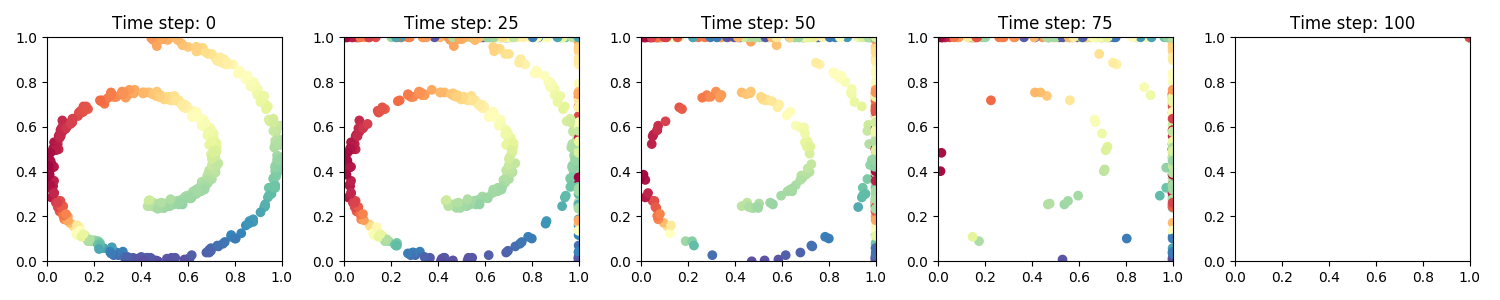
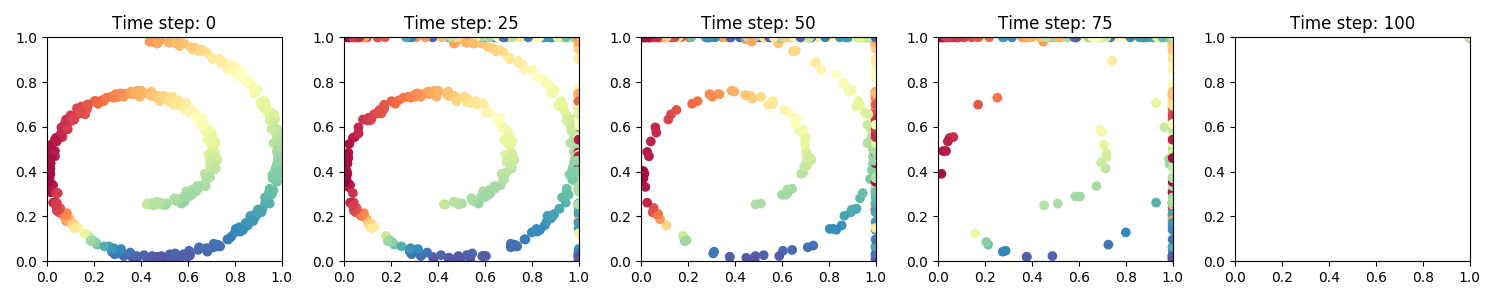
Refactor code for better organization

diff --git a/main.py b/main.py
@@ -4,158 +4,142 @@ import torch.nn as nn
 import torch.optim as optim
 from sklearn.datasets import make_swiss_roll
 import numpy as np
-import matplotlib.pyplot as plt
+from plotting import plot_swiss_roll, plot_noising_process
+from utils import get_diffusion_betas
 
-
-N_SAMPLES = 500  # number of samples for swiss roll dataset
-N_SCHEDULE_STEPS = 100  # number of steps for the diffusion process
-N_HIDDEN = 128  # number of hidden units in the neural network
-N_STATES = 256  # number of states for the swiss roll data
-ABSORBING_STATE = N_STATES  # index of the absorbing state
-
-def create_quantized_swiss_roll(n_samples=1000, noise=0.2, random_state=None):
-    data, _ = make_swiss_roll(n_samples, noise=noise, random_state=random_state)
-    data = data[:, [0, 2]]  # we only take the first and last column.
-    min_val = np.min(data, axis=0)
-    max_val = np.max(data, axis=0)
-
-    # Normalize and quantize the data
-    data = (data - min_val) / (max_val - min_val)
-    data = np.floor(data * N_STATES)  # Quantize to 256 bins
-
-    # Add an absorbing state column initialized to zero (no points absorbed yet)
-    absorbing_state_column = np.zeros((n_samples, 1), dtype=int)
-    data_with_absorbing_state = np.hstack((data, absorbing_state_column))
-    return torch.Tensor(data_with_absorbing_state).long()
-
-# Assume a linear noise schedule for simplicity
-def noise_schedule(t):
-    return t / N_SCHEDULE_STEPS
 
 class NoisySwissRollDataset(data.Dataset):
-    def __init__(self, data):
-        self.data = data
+    def __init__(self, betas, n_schedule_steps, n_states):
+        self.n_samples = 10000
+        self.betas = betas
+        self.n_schedule_steps = n_schedule_steps
+        self.n_states = n_states
+        self.absorbing_idx = n_states
+        self.data = self.create_quantized_swiss_roll()
+
+    def create_quantized_swiss_roll(self, noise=0.2, random_state=None):
+        data, _ = make_swiss_roll(self.n_samples, noise=noise, random_state=random_state)
+        data = data[:, [0, 2]]  # we only take the first and last column.
+        min_val = np.min(data, axis=0)
+        max_val = np.max(data, axis=0)
+
+        # Normalize and quantize the data
+        data = (data - min_val) / (max_val - min_val)
+        data = np.floor(data * self.n_states)  # Quantize to 256 bins
+        return torch.Tensor(data).long()
+
+    def apply_noising(self, data_point, t):
+        noise_level = self.betas[t]
+        noisy_data = data_point.clone().detach()
+        noisy_data += (torch.rand(2) < noise_level).long() * (self.absorbing_idx - noisy_data)
+        return noisy_data
 
     def __len__(self):
         return len(self.data)
 
-    def apply_noising(self, data_point, t):
-        noise_level = noise_schedule(t)
-        noisy_data = data_point.clone().detach()
-        noisy_data[:-1] += (torch.rand(2) < noise_level).long() * (ABSORBING_STATE - noisy_data[:-1])
-        if (noisy_data[:-1] >= ABSORBING_STATE).any():
-            noisy_data[-1] = 1  # Mark the point as absorbed
-        return noisy_data
-
     def __getitem__(self, idx):
-        t = torch.randint(0, N_SCHEDULE_STEPS, (1,)).item()
+        t = torch.randint(0, self.n_schedule_steps, (1,)).item()
         data_point = self.data[idx]
         return self.apply_noising(data_point, t), t
 
+
 class DiffusionModel(nn.Module):
-    def __init__(self):
+    def __init__(self, n_features, n_states, n_schedule_steps):
         super(DiffusionModel, self).__init__()
         # A simple network with two hidden layers and ReLU activations
+        self.n_hidden = 128
+        self.n_schedule_steps = n_schedule_steps
         self.network = nn.Sequential(
-            nn.Linear(2, N_HIDDEN),  # 2 input features, since it's 2D data
+            nn.Linear(3, self.n_hidden),  # 2 features + 1 for time embedding
             nn.ReLU(),
-            nn.Linear(N_HIDDEN, N_HIDDEN),
+            nn.Linear(self.n_hidden, self.n_hidden),
             nn.ReLU(),
-            nn.Linear(N_HIDDEN, 2)  # 2 output features (denoised x, y)
+            nn.Linear(self.n_hidden, n_features * (n_states + 1))  # Output logits for all features
         )
     
     def forward(self, x, t):
-        # You could include the time information t in your network input if desired
-        # For now, we just ignore t
+        t = t.float() / self.n_schedule_steps  # Normalize timesteps
+        t_embed = t.view(-1, 1)  # Reshape t to have the correct shape (batch_size, 1)
+        x = torch.cat([x.float(), t_embed], dim=1)
         return self.network(x)
 
-def train(model, dataset_loader, epochs=10):
-    optimizer = optim.Adam(model.parameters(), lr=1e-3)
-    criterion = nn.MSELoss()
-    model.train()  # set the model to training mode
-    
-    for epoch in range(epochs):
-        for i, (noisy_data, _) in enumerate(dataset_loader):
-            optimizer.zero_grad()  # clear previous gradients
-            prediction = model(noisy_data.float(), t=None)  # forward pass without time embedding for simplicity
-            loss = criterion(prediction, noisy_data.float())  # compute loss
-            loss.backward()  # backward pass to calculate gradients
-            optimizer.step()  # update model parameters
-            
-            print(f"Epoch [{epoch+1}/{epochs}], Step [{i+1}/{len(dataset_loader)}], Loss: {loss.item():.4f}")
 
-def sample(model, num_samples=100, num_steps=1000):
-    samples = torch.zeros(num_samples, 2).long()  # Replace with actual sampling code
-    # Implement the reverse diffusion process here
-    return samples
+class SwissRollDiffusion():
+    def __init__(self):
+        self.n_samples = 500  # number of samples for swiss roll dataset
+        self.n_schedule_steps = 100  # number of steps for the diffusion process
+        self.n_epochs = 20  # number of epochs for training
+        self.n_states = 256  # number of states for the swiss roll data
+        self.n_features = 2  # number of features (e.g. x and y coordinate)
+        self.absorbing_idx = self.n_states  # index of the absorbing state
+        self.betas = get_diffusion_betas({'type': 'jsd', 'num_timesteps': self.n_schedule_steps})
+        self.eps = 1e-6  # small value to avoid division by zero
+        self.q_one_step_mats = self.init_transition_matrices()
+        self.noisy_dataset = NoisySwissRollDataset(self.betas, self.n_schedule_steps, self.n_states)
+        self.dataset_loader = torch.utils.data.DataLoader(self.noisy_dataset, batch_size=128, shuffle=True)
 
-def plot_swiss_roll(data, save_path="plots/swiss_roll.png"):
-    plt.figure(figsize=(6, 6))
-    plt.scatter(data[:, 0], data[:, 1], c=np.arctan2(data[:, 0], data[:, 1]), cmap=plt.cm.Spectral)
-    plt.xlabel('X axis')
-    plt.ylabel('Y axis')
-    plt.title('Quantized Swiss Roll')
-    plt.grid(True)
-    plt.savefig(save_path)
-    plt.show()
-
-def visualize_data():
-    # Create a quantized swiss roll dataset
-    quantized_data = create_quantized_swiss_roll(n_samples=N_SAMPLES)
-
-    # Convert to a suitable range for visualization
-    quantized_data = quantized_data / 256.0
-    quantized_data = quantized_data.numpy()
-
-    # Plot and visualize the swiss roll
-    plot_swiss_roll(quantized_data)
-
-def visualize_noising_process():
-    original_data = create_quantized_swiss_roll(n_samples=N_SAMPLES)
-    dataset = NoisySwissRollDataset(original_data)
-
-    vis_steps = 5  # Number of visualization steps
-
-    # Calculate original colors based on initial positions
-    original_colors = np.arctan2(original_data[:, 0], original_data[:, 1]) / N_STATES
-
-    _, axes = plt.subplots(1, vis_steps, figsize=(15, 3))
-    for i in range(vis_steps):
-        time_step = int(i * (N_SCHEDULE_STEPS / (vis_steps - 1)))
-        if time_step > N_SCHEDULE_STEPS:
-            time_step = N_SCHEDULE_STEPS
+    def train(self):
+        model = DiffusionModel(self.n_features, self.n_states, self.n_schedule_steps)
+        optimizer = optim.Adam(model.parameters(), lr=1e-3)
+        criterion = nn.CrossEntropyLoss()  # Assumes classification task for states
+        model.train()
         
-        data_noised = np.array([
-            dataset.apply_noising(dataset.data[j], time_step)[:2].numpy() / N_STATES
-            for j in range(len(dataset))
-        ])
+        for epoch in range(self.n_epochs):
+            for i, (noisy_data, timesteps) in enumerate(self.dataset_loader):
+                optimizer.zero_grad()
+                predictions = model(noisy_data, timesteps)
+                
+                # Split predictions into separate parts for x and y
+                predictions_x = predictions[:, :(self.n_states + 1)]
+                predictions_y = predictions[:, (self.n_states + 1):]
+                
+                # Assume the targets are the original x and y indices
+                loss_x = criterion(predictions_x, noisy_data[:, 0].long())  # Target for x
+                loss_y = criterion(predictions_y, noisy_data[:, 1].long())  # Target for y
+                loss = loss_x + loss_y  # Total loss is the sum of both losses
+                
+                loss.backward()
+                optimizer.step()
+                
+                print(f"Epoch [{epoch+1}/{self.n_epochs}], Step [{i+1}/{len(self.dataset_loader)}], Loss: {loss.item():.4f}")
 
-        axes[i].scatter(data_noised[:, 0], data_noised[:, 1], c=original_colors, cmap=plt.cm.Spectral)
-        axes[i].set_title(f'Time step: {time_step}')
-        axes[i].set_xlim(0, 1)
-        axes[i].set_ylim(0, 1)
+    def init_transition_matrices(self):
+        """Initialize transition matrices with an absorbing state."""
+        # Set values directly to avoid numerical error with betas
+        transition_matrices = []
+        for beta in self.betas:
+            matrix = torch.zeros((self.n_states + 1, self.n_states + 1))  # +1 for absorbing state
+            matrix.fill_diagonal_(1 - beta)
+            matrix[:, self.absorbing_idx] = beta
+            matrix[self.absorbing_idx, self.absorbing_idx] = 1
+            transition_matrices.append(matrix)
+        return torch.stack(transition_matrices)
 
-    plt.tight_layout()
-    plt.savefig("plots/noising_process.png")
-    plt.show()
+    def compute_kl_divergence(self, model, data, timesteps):
+        model_output = model(data, timesteps)
+        # Assume model_output is logits of the reverse transition probabilities
+        # Calculate the forward transition probabilities based on your transition matrices
+        forward_probs = ...  # Extracted from q_one_step_mats based on current state and timesteps
+        model_probs = torch.softmax(model_output, dim=-1)
+        kl_div = torch.sum(model_probs * (torch.log(model_probs + self.eps) - torch.log(forward_probs + self.eps)), dim=-1)
+        return kl_div.mean()
 
-def main():
-    # Generating the dataset
-    dataset = create_quantized_swiss_roll()
-    noisy_dataset = NoisySwissRollDataset(dataset)
-    dataset_loader = torch.utils.data.DataLoader(noisy_dataset, batch_size=128, shuffle=True)
+    def q_posterior_logits(self, transpose_q_mats, q_mats, x_t, t, x_start):
+        """Compute the logits of q(x_{t-1} | x_t, x_start)."""
+        # transpose_q_mats and q_mats are precomputed transition matrices
+        fact1 = transpose_q_mats[t][x_t]  # Transition probabilities from x_t
+        fact2 = q_mats[t-1][x_start] if t > 0 else torch.zeros_like(fact1)
+        logits = torch.log(fact1 + self.eps) + torch.log(fact2 + self.eps)
+        return logits
 
-    # Instantiate the model
-    model = DiffusionModel()
-
-    # Training the model
-    train(model, dataset_loader)
-
-    # Generate new data points
-    # generated_samples = sample(model)
+    def visualize_noising_process(self):
+        dataset = NoisySwissRollDataset(self.betas, self.n_schedule_steps, self.n_states)
+        vis_steps = 5  # Number of visualization steps
+        colors = np.arctan2(data[:, 0], data[:, 1]) / self.n_states  # use original data for coloring
+        plot_noising_process(dataset, vis_steps, colors, self.n_states, self.n_schedule_steps)
 
 
 if __name__ == "__main__":
-    # visualize_data()
-    # main()
-    visualize_noising_process()
+    swiss_roll_diffusion = SwissRollDiffusion()
+    swiss_roll_diffusion.train()
+    # swiss_roll_diffusion.visualize_noising_process()

diff --git a/utils.py b/utils.py
@@ -1,0 +1,31 @@
+# Some parts taken directly from the official d3pm code base
+# https://github.com/google-research/google-research/tree/master/d3pm
+import numpy as np
+
+
+def get_diffusion_betas(spec):
+  """Get betas from the hyperparameters."""
+  if spec['type'] == 'linear':
+    # Used by Ho et al. for DDPM, https://arxiv.org/abs/2006.11239.
+    # To be used with Gaussian diffusion models in continuous and discrete
+    # state spaces.
+    # To be used with transition_mat_type = 'gaussian'
+    return np.linspace(spec['start'], spec['stop'], spec['num_timesteps'])
+  elif spec['type'] == 'cosine':
+    # Schedule proposed by Hoogeboom et al. https://arxiv.org/abs/2102.05379
+    # To be used with transition_mat_type = 'uniform'.
+    steps = (
+        np.arange(spec['num_timesteps'] + 1, dtype=np.float64) /
+        spec['num_timesteps'])
+    alpha_bar = np.cos((steps + 0.008) / 1.008 * np.pi / 2)
+    betas = np.minimum(1 - alpha_bar[1:] / alpha_bar[:-1], 0.999)
+    return betas
+  elif spec['type'] == 'jsd':  # 1/T, 1/(T-1), 1/(T-2), ..., 1
+    # Proposed by Sohl-Dickstein et al., https://arxiv.org/abs/1503.03585
+    # To be used with absorbing state models.
+    # ensures that the probability of decaying to the absorbing state
+    # increases linearly over time, and is 1 for t = T-1 (the final time).
+    # To be used with transition_mat_type = 'absorbing'
+    return 1. / np.linspace(spec['num_timesteps'], 1., spec['num_timesteps'])
+  else:
+    raise NotImplementedError(spec['type'])

diff --git a/plotting.py b/plotting.py
@@ -1,0 +1,34 @@
+import numpy as np
+import matplotlib.pyplot as plt
+
+
+def plot_swiss_roll(data, save_path="plots/swiss_roll.png"):
+    plt.figure(figsize=(6, 6))
+    plt.scatter(data[:, 0], data[:, 1], c=np.arctan2(data[:, 0], data[:, 1]), cmap=plt.cm.Spectral)
+    plt.xlabel('X axis')
+    plt.ylabel('Y axis')
+    plt.title('Quantized Swiss Roll')
+    plt.grid(True)
+    plt.savefig(save_path)
+    plt.show()
+
+def plot_noising_process(dataset, vis_steps, colors, n_states, n_schedule_steps):
+    _, axes = plt.subplots(1, vis_steps, figsize=(15, 3))
+    for i in range(vis_steps):
+        time_step = int(i * (n_schedule_steps / (vis_steps - 1)))
+        if time_step > n_schedule_steps:
+            time_step = n_schedule_steps
+        
+        data_noised = np.array([
+            dataset.apply_noising(dataset.data[j], time_step)[:2].numpy() / n_states
+            for j in range(len(dataset))
+        ])
+
+        axes[i].scatter(data_noised[:, 0], data_noised[:, 1], c=colors, cmap=plt.cm.Spectral)
+        axes[i].set_title(f'Time step: {time_step}')
+        axes[i].set_xlim(0, 1)
+        axes[i].set_ylim(0, 1)
+
+    plt.tight_layout()
+    plt.savefig("plots/noising_process.png")
+    plt.show()

diff --git a/README.md b/README.md
@@ -1,0 +1,7 @@
+This is an implementation of the discrete denoising diffusion probabilistic model (D3PM) in pytorch.
+
+# Run
+
+```bash
+python main.py
+```
